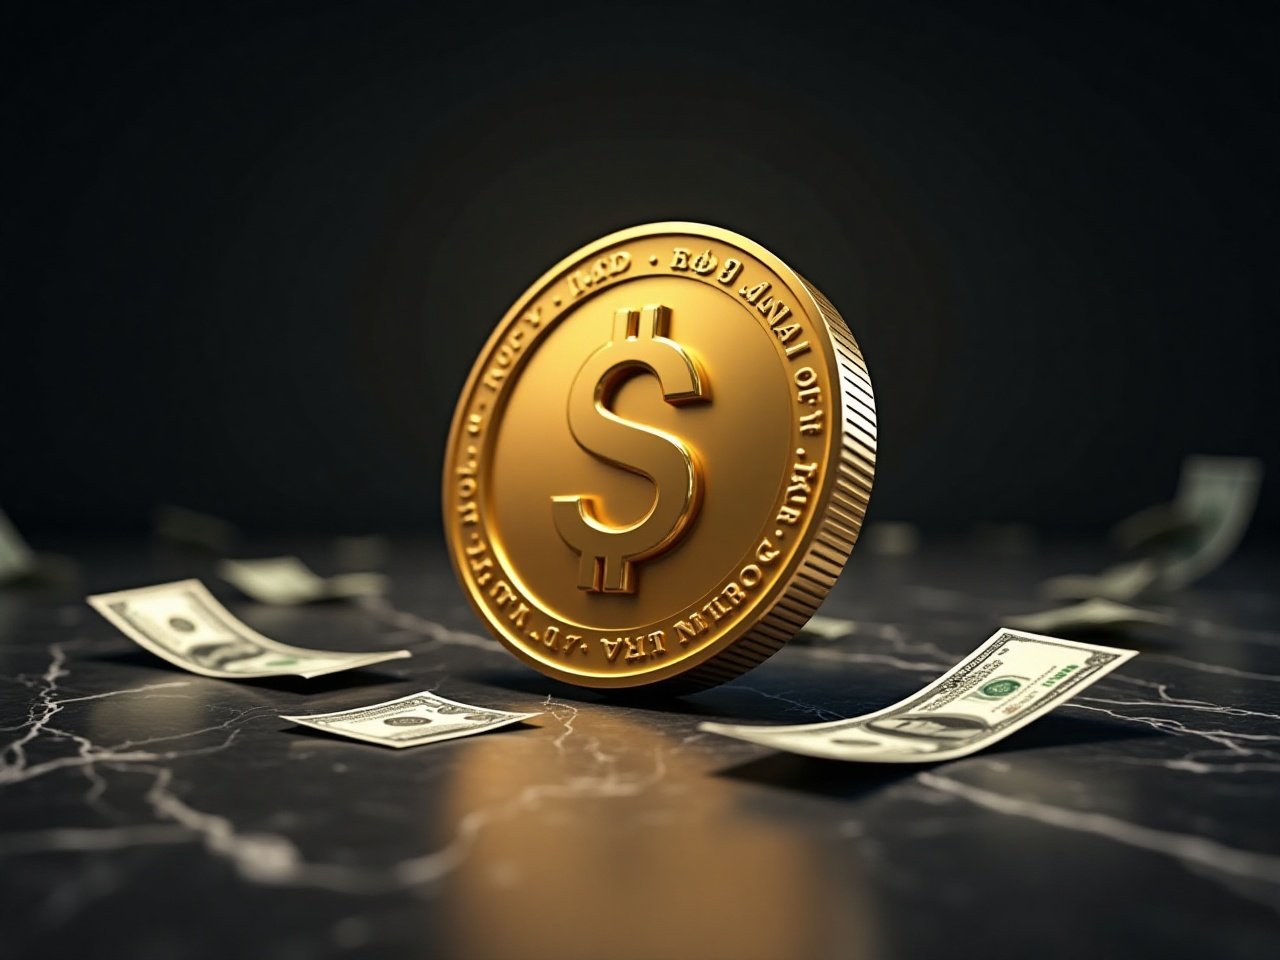
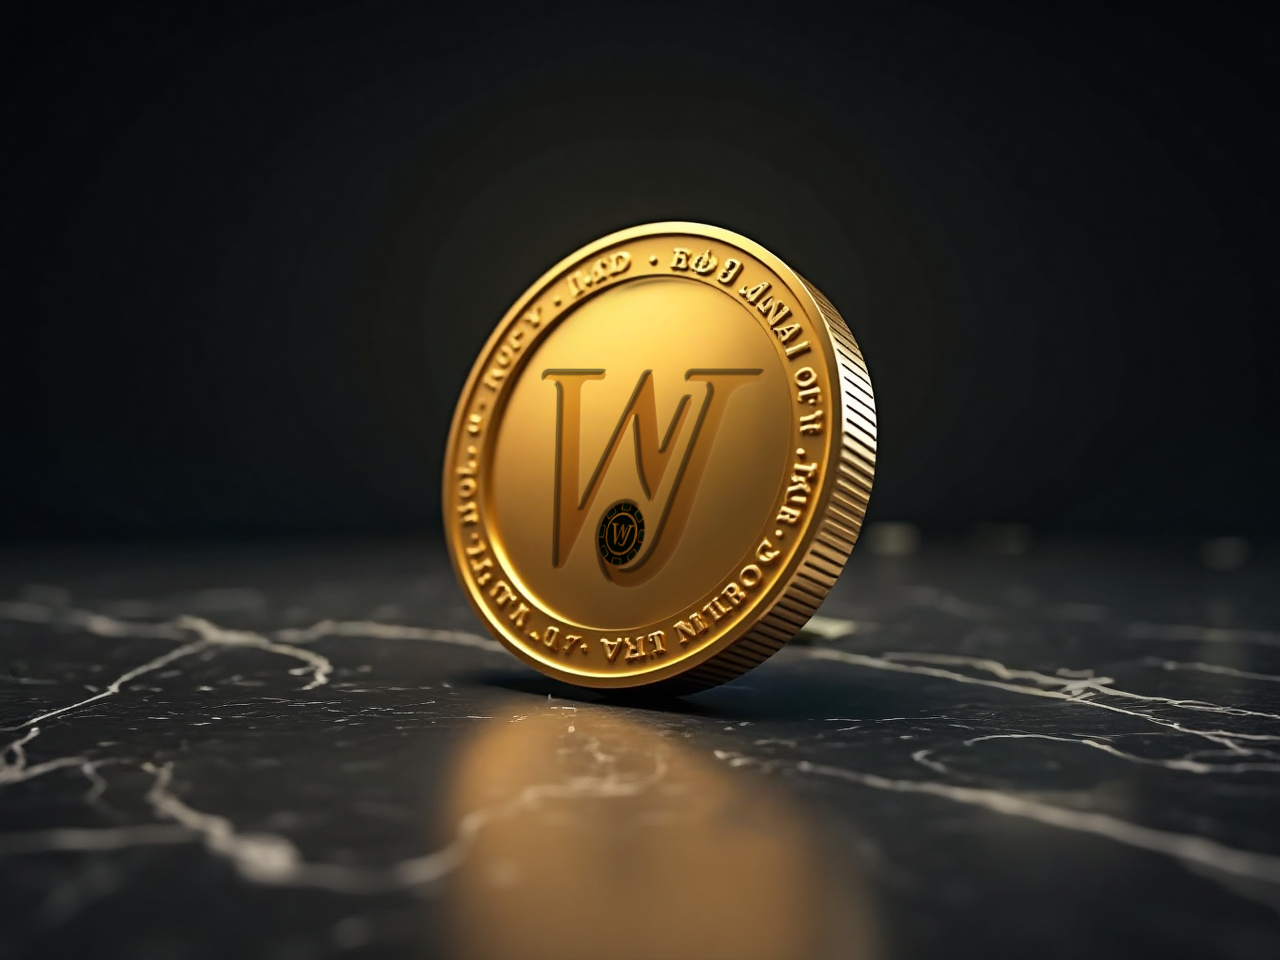
removing money from the images and changing color of 'regras' text

Changed region(s): [[0.5312, 0.4688, 1.0, 0.875], [0.0, 0.5312, 0.4375, 0.8125], [0.4062, 0.2812, 0.5938, 0.6562]]

diff --git a/src/app/page.tsx b/src/app/page.tsx
@@ -226,7 +226,7 @@ export default function CasinoLanding() {
                       >
                         <div className="h-52 overflow-hidden cursor-pointer">
                           <Image
-                            src="/card-bg-1.jpeg"
+                            src="/card-bg-1.png"
                             alt="Saques Rápidos"
                             width={375}
                             height={210}
@@ -374,7 +374,7 @@ export default function CasinoLanding() {
                 >
                   <div className="h-52 overflow-hidden cursor-pointer">
                     <Image
-                      src="/card-bg-1.jpeg"
+                      src="/card-bg-1.png"
                       alt="Saques Rápidos"
                       width={375}
                       height={210}
@@ -508,11 +508,13 @@ export default function CasinoLanding() {
         </div>
 
         {}
-        <div className="text-center mb-6">
-          <p className="font-bold text-lg">Regras:</p>
+        <div className="bg-[#1e2130] rounded-xl p-8 mb-12">
+        <div className="text-center mb-2 color text-white">
+          <p className="font-bold text-3xl mb-2">Regras</p>
           <p>
-            Após aplicar o código dentro da plataforma e receber cinco spins, você precisa jogar mais 25 vezes no mesmo jogo para sacar os seus ganhos.
+            Após aplicar o código dentro da plataforma e receber dez spins, você precisa jogar mais 20 vezes no mesmo jogo para sacar os seus ganhos.
           </p>
+        </div>
         </div>
         <div className="bg-[#1e2130] rounded-xl p-8 mb-12">
           <div className="flex justify-center mb-6">
@@ -553,7 +555,7 @@ export default function CasinoLanding() {
               <p className="mb-4">
                 <strong>1. Qual o período da campanha?</strong>
                 <br />A campanha é válida de{" "}
-                <strong>01/07/2025 a 31/07/2025.</strong>
+                <strong>12/09/2025 a 12/01/2026.</strong>
               </p>
               <p className="mb-4">
                 <strong>2. O código é único para cada usuário?</strong>
@@ -564,7 +566,7 @@ export default function CasinoLanding() {
               <p className="mb-4">
                 <strong>3. Quantos jogadores podem resgatar o código?</strong>
                 <br />O código é válido apenas para os{" "}
-                <strong>primeiros mil jogadores.</strong>
+                <strong>primeiros três mil jogadores.</strong>
               </p>
               <p className="mb-4">
                 <strong>
@@ -577,7 +579,7 @@ export default function CasinoLanding() {
               <p>
                 <strong>5. Como sacar os meus ganhos?</strong>
                 <br />
-                Após aplicar o código dentro da plataforma e receber cinco spins, <strong>você precisa jogar mais 25 vezes no mesmo jogo</strong> para sacar os seus ganhos.
+                Após aplicar o código dentro da plataforma e receber dez spins, <strong>você precisa jogar mais 20 vezes no mesmo jogo</strong> para sacar os seus ganhos.
                 <br />
                 <br />
               </p>
